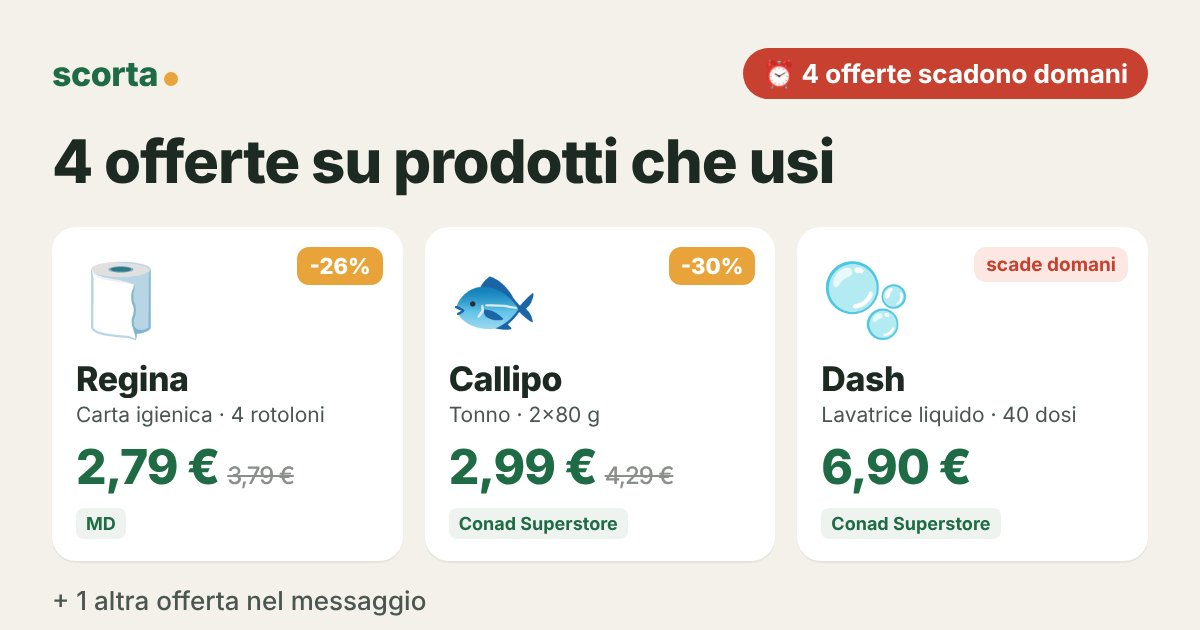
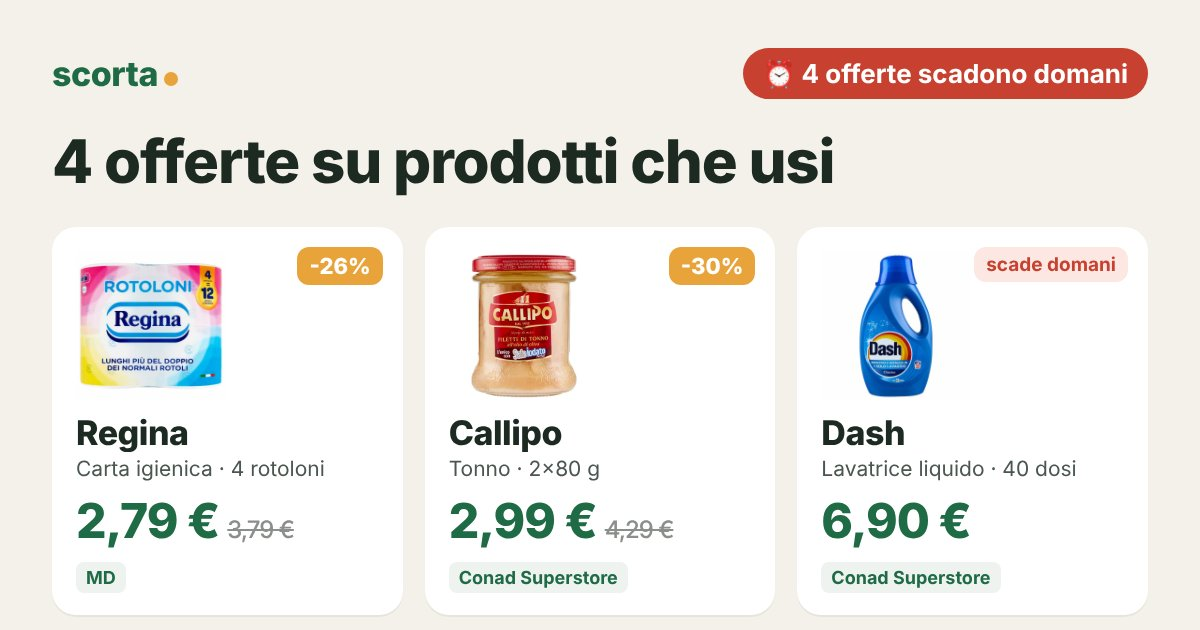
Pagine offerte 2026-10-31
Claude-Session: https://claude.ai/code/session_012BnByD7nnfoHswjF7TKs2L

diff --git a/o/31ed0d9c/index.html b/o/31ed0d9c/index.html
@@ -6,4 +6,4 @@
 <style>body{margin:0;font-family:-apple-system,system-ui,sans-serif;background:#F4F1EA;color:#1d2a22}main{max-width:560px;margin:auto;padding:16px}img{width:100%;border-radius:14px}
 ul{list-style:none;padding:0}li{display:flex;gap:10px;align-items:center;background:#fff;border-radius:12px;padding:10px 12px;margin:8px 0}.ic{font-size:26px}.th{width:44px;height:44px;object-fit:contain;background:#fff}li div:nth-child(2){flex:1}small{color:#6b746e}.pr{text-align:right;white-space:nowrap}s{color:#8a8f8b;font-size:13px}
 .btn{display:block;text-align:center;background:#1f6b45;color:#fff;font-weight:700;font-size:18px;padding:16px;border-radius:14px;text-decoration:none;margin:18px 0}.map{display:block;color:#1f6b45;margin:6px 0;text-decoration:none}</style></head>
-<body><main><img src="card.jpg" alt=""><a class="btn" href="https://tally.so/r/OQQV7k?f=F008&amp;a=A050,A051,A052,A053">✅ Segna cosa hai comprato</a><ul><li><span class=ic>🧻</span><div><b>Regina 4 rotoloni carta igienica</b><br><small>MD · scade domani</small></div><div class="pr"><s>3,79 €</s> <b>2,79 €</b></div></li><li><span class=ic>💧</span><div><b>Ferrarelle acqua effervescente naturale 6x1,5 l</b><br><small>Conad · scade domani</small></div><div class="pr"><b>1,80 €</b></div></li><li><span class=ic>🍪</span><div><b>Mulino Bianco biscotti classici Rigoli 400 g</b><br><small>Decò Supermercato · fino al 2/11</small></div><div class="pr"><b>1,59 €</b></div></li><li><span class=ic>🍞</span><div><b>Mulino Bianco fette biscottate dorate 630 g</b><br><small>Decò Supermercato · fino al 2/11</small></div><div class="pr"><b>1,79 €</b></div></li></ul><a class="map" href="https://www.google.com/maps/search/?api=1&query=MD%20C.SO%20ITALIA%2055%20Marano%20di%20Napoli">📍 MD · C.SO ITALIA 55, Marano di Napoli</a><a class="map" href="https://www.google.com/maps/search/?api=1&query=Conad%20Via%20Della%20Repubblica%20122%20Calvizzano">📍 Conad · Via Della Repubblica 122, Calvizzano</a><a class="map" href="https://www.google.com/maps/search/?api=1&query=Dec%C3%B2%20Supermercato%20Via%20Ernesto%20Che%20Guevara%2C%2036%20Marano%20di%20Napoli">📍 Decò Supermercato · Via Ernesto Che Guevara, 36, Marano di Napoli</a><p><small>Prezzi e scadenze dai volantini delle insegne. Rispondi STOP su WhatsApp per non ricevere più avvisi.</small></p></main></body></html>
+<body><main><img src="card.jpg" alt=""><a class="btn" href="https://tally.so/r/OQQV7k?f=F008&amp;a=A050,A051,A052,A053">✅ Segna cosa hai comprato</a><ul><li><img class=th src=../../img/L189.jpg><div><b>Regina 4 rotoloni carta igienica</b><br><small>MD · scade domani</small></div><div class="pr"><s>3,79 €</s> <b>2,79 €</b></div></li><li><span class=ic>💧</span><div><b>Ferrarelle acqua effervescente naturale 6x1,5 l</b><br><small>Conad · scade domani</small></div><div class="pr"><b>1,80 €</b></div></li><li><span class=ic>🍪</span><div><b>Mulino Bianco biscotti classici Rigoli 400 g</b><br><small>Decò Supermercato · fino al 2/11</small></div><div class="pr"><b>1,59 €</b></div></li><li><img class=th src=../../img/L098.jpg><div><b>Mulino Bianco fette biscottate dorate 630 g</b><br><small>Decò Supermercato · fino al 2/11</small></div><div class="pr"><b>1,79 €</b></div></li></ul><a class="map" href="https://www.google.com/maps/search/?api=1&query=MD%20C.SO%20ITALIA%2055%20Marano%20di%20Napoli">📍 MD · C.SO ITALIA 55, Marano di Napoli</a><a class="map" href="https://www.google.com/maps/search/?api=1&query=Conad%20Via%20Della%20Repubblica%20122%20Calvizzano">📍 Conad · Via Della Repubblica 122, Calvizzano</a><a class="map" href="https://www.google.com/maps/search/?api=1&query=Dec%C3%B2%20Supermercato%20Via%20Ernesto%20Che%20Guevara%2C%2036%20Marano%20di%20Napoli">📍 Decò Supermercato · Via Ernesto Che Guevara, 36, Marano di Napoli</a><p><small>Prezzi e scadenze dai volantini delle insegne. Rispondi STOP su WhatsApp per non ricevere più avvisi.</small></p></main></body></html>

diff --git a/o/7c19c5b6/index.html b/o/7c19c5b6/index.html
@@ -6,4 +6,4 @@
 <style>body{margin:0;font-family:-apple-system,system-ui,sans-serif;background:#F4F1EA;color:#1d2a22}main{max-width:560px;margin:auto;padding:16px}img{width:100%;border-radius:14px}
 ul{list-style:none;padding:0}li{display:flex;gap:10px;align-items:center;background:#fff;border-radius:12px;padding:10px 12px;margin:8px 0}.ic{font-size:26px}.th{width:44px;height:44px;object-fit:contain;background:#fff}li div:nth-child(2){flex:1}small{color:#6b746e}.pr{text-align:right;white-space:nowrap}s{color:#8a8f8b;font-size:13px}
 .btn{display:block;text-align:center;background:#1f6b45;color:#fff;font-weight:700;font-size:18px;padding:16px;border-radius:14px;text-decoration:none;margin:18px 0}.map{display:block;color:#1f6b45;margin:6px 0;text-decoration:none}</style></head>
-<body><main><img src="card.jpg" alt=""><a class="btn" href="https://tally.so/r/OQQV7k?f=F003&amp;a=A039,A040,A041,A042">✅ Segna cosa hai comprato</a><ul><li><span class=ic>🧽</span><div><b>Ace pavimenti igienizzante lavanda/talco 1 l</b><br><small>Conad · scade domani</small></div><div class="pr"><b>1,49 €</b></div></li><li><span class=ic>🍅</span><div><b>Mutti passata di pomodoro 700 g</b><br><small>Conad Superstore · scade domani</small></div><div class="pr"><b>0,95 €</b></div></li><li><span class=ic>🐟</span><div><b>Rio mare Tonno all&#x27;Olio di Oliva 4 + 2 Gratis x 80 g</b><br><small>Dodecà · prezzo fisso</small></div><div class="pr"><b>5,99 €</b></div></li><li><span class=ic>🍽</span><div><b>Fairy Pastiglie Lavastoviglie Platinum All in One, Detersivo Piatti Limone, 45 Capsule 671 g</b><br><small>Dodecà · prezzo fisso</small></div><div class="pr"><b>11,69 €</b></div></li></ul><a class="map" href="https://www.google.com/maps/search/?api=1&query=Conad%20Corso%20Cirillo%2027%20Grumo%20Nevano">📍 Conad · Corso Cirillo 27, Grumo Nevano</a><a class="map" href="https://www.google.com/maps/search/?api=1&query=Conad%20Superstore%20Via%20Barraccone%20Snc%20Sant%27Arpino">📍 Conad Superstore · Via Barraccone Snc, Sant&#x27;Arpino</a><a class="map" href="https://www.google.com/maps/search/?api=1&query=Dodec%C3%A0%20Via%20Sette%20Re%2C%2077%20Arzano">📍 Dodecà · Via Sette Re, 77, Arzano</a><p><small>Prezzi e scadenze dai volantini delle insegne. Rispondi STOP su WhatsApp per non ricevere più avvisi.</small></p></main></body></html>
+<body><main><img src="card.jpg" alt=""><a class="btn" href="https://tally.so/r/OQQV7k?f=F003&amp;a=A039,A040,A041,A042">✅ Segna cosa hai comprato</a><ul><li><img class=th src=../../img/L565.jpg><div><b>Ace pavimenti igienizzante lavanda/talco 1 l</b><br><small>Conad · scade domani</small></div><div class="pr"><b>1,49 €</b></div></li><li><img class=th src=../../img/L027.jpg><div><b>Mutti passata di pomodoro 700 g</b><br><small>Conad Superstore · scade domani</small></div><div class="pr"><b>0,95 €</b></div></li><li><img class=th src=../../img/L039.jpg><div><b>Rio mare Tonno all&#x27;Olio di Oliva 4 + 2 Gratis x 80 g</b><br><small>Dodecà · prezzo fisso</small></div><div class="pr"><b>5,99 €</b></div></li><li><img class=th src=../../img/L163.jpg><div><b>Fairy Pastiglie Lavastoviglie Platinum All in One, Detersivo Piatti Limone, 45 Capsule 671 g</b><br><small>Dodecà · prezzo fisso</small></div><div class="pr"><b>11,69 €</b></div></li></ul><a class="map" href="https://www.google.com/maps/search/?api=1&query=Conad%20Corso%20Cirillo%2027%20Grumo%20Nevano">📍 Conad · Corso Cirillo 27, Grumo Nevano</a><a class="map" href="https://www.google.com/maps/search/?api=1&query=Conad%20Superstore%20Via%20Barraccone%20Snc%20Sant%27Arpino">📍 Conad Superstore · Via Barraccone Snc, Sant&#x27;Arpino</a><a class="map" href="https://www.google.com/maps/search/?api=1&query=Dodec%C3%A0%20Via%20Sette%20Re%2C%2077%20Arzano">📍 Dodecà · Via Sette Re, 77, Arzano</a><p><small>Prezzi e scadenze dai volantini delle insegne. Rispondi STOP su WhatsApp per non ricevere più avvisi.</small></p></main></body></html>

diff --git a/o/8577fc16/index.html b/o/8577fc16/index.html
@@ -6,4 +6,4 @@
 <style>body{margin:0;font-family:-apple-system,system-ui,sans-serif;background:#F4F1EA;color:#1d2a22}main{max-width:560px;margin:auto;padding:16px}img{width:100%;border-radius:14px}
 ul{list-style:none;padding:0}li{display:flex;gap:10px;align-items:center;background:#fff;border-radius:12px;padding:10px 12px;margin:8px 0}.ic{font-size:26px}.th{width:44px;height:44px;object-fit:contain;background:#fff}li div:nth-child(2){flex:1}small{color:#6b746e}.pr{text-align:right;white-space:nowrap}s{color:#8a8f8b;font-size:13px}
 .btn{display:block;text-align:center;background:#1f6b45;color:#fff;font-weight:700;font-size:18px;padding:16px;border-radius:14px;text-decoration:none;margin:18px 0}.map{display:block;color:#1f6b45;margin:6px 0;text-decoration:none}</style></head>
-<body><main><img src="card.jpg" alt=""><a class="btn" href="https://tally.so/r/OQQV7k?f=F005&amp;a=A046,A047,A048,A049">✅ Segna cosa hai comprato</a><ul><li><span class=ic>🧻</span><div><b>Regina 4 rotoloni carta igienica</b><br><small>MD · scade domani</small></div><div class="pr"><s>3,79 €</s> <b>2,79 €</b></div></li><li><span class=ic>🐟</span><div><b>Callipo tranci di tonno all&#x27;olio extravergine biologico 2x80 g</b><br><small>Conad Superstore · scade domani</small></div><div class="pr"><s>4,29 €</s> <b>2,99 €</b></div></li><li><span class=ic>🫧</span><div><b>Dash detersivo liquido lavatrice classico/colore 40 dosi 1,8 l</b><br><small>Conad Superstore · scade domani</small></div><div class="pr"><b>6,90 €</b></div></li><li><span class=ic>🪥</span><div><b>Mentadent dentifricio prevenzione completa/white system 2x75 ml</b><br><small>Conad Superstore · scade domani</small></div><div class="pr"><b>2,89 €</b></div></li></ul><a class="map" href="https://www.google.com/maps/search/?api=1&query=MD%20Via%20Giulio%20Cesare%2C%2050%2C%20Fuorigrotta%20Napoli">📍 MD · Via Giulio Cesare, 50, Fuorigrotta, Napoli</a><a class="map" href="https://www.google.com/maps/search/?api=1&query=Conad%20Superstore%20Via%20Cintia-%20Angolo%20Via%20Marcaurelio%20Snc%20Napoli">📍 Conad Superstore · Via Cintia- Angolo Via Marcaurelio Snc, Napoli</a><p><small>Prezzi e scadenze dai volantini delle insegne. Rispondi STOP su WhatsApp per non ricevere più avvisi.</small></p></main></body></html>
+<body><main><img src="card.jpg" alt=""><a class="btn" href="https://tally.so/r/OQQV7k?f=F005&amp;a=A046,A047,A048,A049">✅ Segna cosa hai comprato</a><ul><li><img class=th src=../../img/L189.jpg><div><b>Regina 4 rotoloni carta igienica</b><br><small>MD · scade domani</small></div><div class="pr"><s>3,79 €</s> <b>2,79 €</b></div></li><li><img class=th src=../../img/L042.jpg><div><b>Callipo tranci di tonno all&#x27;olio extravergine biologico 2x80 g</b><br><small>Conad Superstore · scade domani</small></div><div class="pr"><s>4,29 €</s> <b>2,99 €</b></div></li><li><img class=th src=../../img/L138.jpg><div><b>Dash detersivo liquido lavatrice classico/colore 40 dosi 1,8 l</b><br><small>Conad Superstore · scade domani</small></div><div class="pr"><b>6,90 €</b></div></li><li><img class=th src=../../img/L223.jpg><div><b>Mentadent dentifricio prevenzione completa/white system 2x75 ml</b><br><small>Conad Superstore · scade domani</small></div><div class="pr"><b>2,89 €</b></div></li></ul><a class="map" href="https://www.google.com/maps/search/?api=1&query=MD%20Via%20Giulio%20Cesare%2C%2050%2C%20Fuorigrotta%20Napoli">📍 MD · Via Giulio Cesare, 50, Fuorigrotta, Napoli</a><a class="map" href="https://www.google.com/maps/search/?api=1&query=Conad%20Superstore%20Via%20Cintia-%20Angolo%20Via%20Marcaurelio%20Snc%20Napoli">📍 Conad Superstore · Via Cintia- Angolo Via Marcaurelio Snc, Napoli</a><p><small>Prezzi e scadenze dai volantini delle insegne. Rispondi STOP su WhatsApp per non ricevere più avvisi.</small></p></main></body></html>

diff --git a/o/79c985cf/index.html b/o/79c985cf/index.html
@@ -6,4 +6,4 @@
 <style>body{margin:0;font-family:-apple-system,system-ui,sans-serif;background:#F4F1EA;color:#1d2a22}main{max-width:560px;margin:auto;padding:16px}img{width:100%;border-radius:14px}
 ul{list-style:none;padding:0}li{display:flex;gap:10px;align-items:center;background:#fff;border-radius:12px;padding:10px 12px;margin:8px 0}.ic{font-size:26px}.th{width:44px;height:44px;object-fit:contain;background:#fff}li div:nth-child(2){flex:1}small{color:#6b746e}.pr{text-align:right;white-space:nowrap}s{color:#8a8f8b;font-size:13px}
 .btn{display:block;text-align:center;background:#1f6b45;color:#fff;font-weight:700;font-size:18px;padding:16px;border-radius:14px;text-decoration:none;margin:18px 0}.map{display:block;color:#1f6b45;margin:6px 0;text-decoration:none}</style></head>
-<body><main><img src="card.jpg" alt=""><a class="btn" href="https://tally.so/r/OQQV7k?f=F004&amp;a=A043,A044,A045">✅ Segna cosa hai comprato</a><ul><li><span class=ic>🫧</span><div><b>Lenor ammorbidente assortito 1806 ml, 87 lavaggi</b><br><small>MD · scade domani</small></div><div class="pr"><s>5,99 €</s> <b>4,89 €</b></div></li><li><span class=ic>💧</span><div><b>Panna acqua naturale 6x50 cl</b><br><small>Conad City · fino al 4/11</small></div><div class="pr"><b>2,29 €</b></div></li><li><span class=ic>🍽</span><div><b>Finish Quantum Limone pastiglie lavastoviglie 27 lavaggi 280,8 g</b><br><small>Dodecà · prezzo fisso</small></div><div class="pr"><b>6,49 €</b></div></li></ul><a class="map" href="https://www.google.com/maps/search/?api=1&query=MD%20C.SO%20ITALIA%2055%20Marano%20di%20Napoli">📍 MD · C.SO ITALIA 55, Marano di Napoli</a><a class="map" href="https://www.google.com/maps/search/?api=1&query=Conad%20City%20Corso%20Umberto%20I%2057%20Marano%20di%20Napoli">📍 Conad City · Corso Umberto I 57, Marano di Napoli</a><a class="map" href="https://www.google.com/maps/search/?api=1&query=Dodec%C3%A0%20Via%20Giuseppe%20di%20Vittorio%20SNC%20Mugnano%20di%20Napoli">📍 Dodecà · Via Giuseppe di Vittorio SNC, Mugnano di Napoli</a><p><small>Prezzi e scadenze dai volantini delle insegne. Rispondi STOP su WhatsApp per non ricevere più avvisi.</small></p></main></body></html>
+<body><main><img src="card.jpg" alt=""><a class="btn" href="https://tally.so/r/OQQV7k?f=F004&amp;a=A043,A044,A045">✅ Segna cosa hai comprato</a><ul><li><img class=th src=../../img/L153.jpg><div><b>Lenor ammorbidente assortito 1806 ml, 87 lavaggi</b><br><small>MD · scade domani</small></div><div class="pr"><s>5,99 €</s> <b>4,89 €</b></div></li><li><img class=th src=../../img/L066.jpg><div><b>Panna acqua naturale 6x50 cl</b><br><small>Conad City · fino al 4/11</small></div><div class="pr"><b>2,29 €</b></div></li><li><img class=th src=../../img/L161.jpg><div><b>Finish Quantum Limone pastiglie lavastoviglie 27 lavaggi 280,8 g</b><br><small>Dodecà · prezzo fisso</small></div><div class="pr"><b>6,49 €</b></div></li></ul><a class="map" href="https://www.google.com/maps/search/?api=1&query=MD%20C.SO%20ITALIA%2055%20Marano%20di%20Napoli">📍 MD · C.SO ITALIA 55, Marano di Napoli</a><a class="map" href="https://www.google.com/maps/search/?api=1&query=Conad%20City%20Corso%20Umberto%20I%2057%20Marano%20di%20Napoli">📍 Conad City · Corso Umberto I 57, Marano di Napoli</a><a class="map" href="https://www.google.com/maps/search/?api=1&query=Dodec%C3%A0%20Via%20Giuseppe%20di%20Vittorio%20SNC%20Mugnano%20di%20Napoli">📍 Dodecà · Via Giuseppe di Vittorio SNC, Mugnano di Napoli</a><p><small>Prezzi e scadenze dai volantini delle insegne. Rispondi STOP su WhatsApp per non ricevere più avvisi.</small></p></main></body></html>

diff --git a/o/a0ea8a2d/index.html b/o/a0ea8a2d/index.html
@@ -1,0 +1,9 @@
+<!DOCTYPE html><html lang="it"><head><meta charset="utf-8"><meta name="viewport" content="width=device-width,initial-scale=1">
+<title>Le tue offerte Scorta</title><meta name="robots" content="noindex">
+<meta property="og:title" content="6 offerte su prodotti che usi"><meta property="og:description" content="Le offerte Scorta sui prodotti che usi, nei negozi vicino a te.">
+<meta property="og:image" content="https://scortait.github.io/o/a0ea8a2d/card.jpg"><meta property="og:image:width" content="1200"><meta property="og:image:height" content="630"><meta property="og:image:type" content="image/jpeg">
+<meta property="og:url" content="https://scortait.github.io/o/a0ea8a2d/"><meta property="og:site_name" content="Scorta"><meta property="og:type" content="website">
+<style>body{margin:0;font-family:-apple-system,system-ui,sans-serif;background:#F4F1EA;color:#1d2a22}main{max-width:560px;margin:auto;padding:16px}img{width:100%;border-radius:14px}
+ul{list-style:none;padding:0}li{display:flex;gap:10px;align-items:center;background:#fff;border-radius:12px;padding:10px 12px;margin:8px 0}.ic{font-size:26px}.th{width:44px;height:44px;object-fit:contain;background:#fff}li div:nth-child(2){flex:1}small{color:#6b746e}.pr{text-align:right;white-space:nowrap}s{color:#8a8f8b;font-size:13px}
+.btn{display:block;text-align:center;background:#1f6b45;color:#fff;font-weight:700;font-size:18px;padding:16px;border-radius:14px;text-decoration:none;margin:18px 0}.map{display:block;color:#1f6b45;margin:6px 0;text-decoration:none}</style></head>
+<body><main><img src="card.jpg" alt=""><a class="btn" href="https://tally.so/r/OQQV7k?f=F009&amp;a=A054,A055,A056,A057,A058,A059">✅ Segna cosa hai comprato</a><ul><li><img class=th src=../../img/L189.jpg><div><b>Regina 4 rotoloni carta igienica</b><br><small>MD · scade domani</small></div><div class="pr"><s>3,79 €</s> <b>2,79 €</b></div></li><li><img class=th src=../../img/L027.jpg><div><b>Mutti passata di pomodoro 700 g</b><br><small>Conad · scade domani</small></div><div class="pr"><b>0,95 €</b></div></li><li><img class=th src=../../img/L223.jpg><div><b>Mentadent dentifricio White System/P 2x75 ml</b><br><small>Conad · scade domani</small></div><div class="pr"><b>2,89 €</b></div></li><li><img class=th src=../../img/L003.jpg><div><b>De Cecco pasta di semola formati normali 500 g</b><br><small>Decò Supermercato · fino al 2/11</small></div><div class="pr"><b>0,79 €</b></div></li><li><img class=th src=../../img/L141.jpg><div><b>Omino Bianco detersivo liquido lavatrice 44 lavaggi</b><br><small>Decò Supermercato · fino al 2/11</small></div><div class="pr"><b>4,39 €</b></div></li><li><img class=th src=../../img/L365.jpg><div><b>Finish gel Ultimate 3x540 ml</b><br><small>Decò Supermercato · fino al 2/11</small></div><div class="pr"><b>10,49 €</b></div></li></ul><a class="map" href="https://www.google.com/maps/search/?api=1&query=MD%20C.SO%20ITALIA%2055%20Marano%20di%20Napoli">📍 MD · C.SO ITALIA 55, Marano di Napoli</a><a class="map" href="https://www.google.com/maps/search/?api=1&query=Conad%20Via%20Della%20Repubblica%20122%20Calvizzano">📍 Conad · Via Della Repubblica 122, Calvizzano</a><a class="map" href="https://www.google.com/maps/search/?api=1&query=Dec%C3%B2%20Supermercato%20Via%20Ernesto%20Che%20Guevara%2C%2036%20Marano%20di%20Napoli">📍 Decò Supermercato · Via Ernesto Che Guevara, 36, Marano di Napoli</a><p><small>Prezzi e scadenze dai volantini delle insegne. Rispondi STOP su WhatsApp per non ricevere più avvisi.</small></p></main></body></html>

diff --git a/o/5cffcb88/index.html b/o/5cffcb88/index.html
@@ -6,4 +6,4 @@
 <style>body{margin:0;font-family:-apple-system,system-ui,sans-serif;background:#F4F1EA;color:#1d2a22}main{max-width:560px;margin:auto;padding:16px}img{width:100%;border-radius:14px}
 ul{list-style:none;padding:0}li{display:flex;gap:10px;align-items:center;background:#fff;border-radius:12px;padding:10px 12px;margin:8px 0}.ic{font-size:26px}.th{width:44px;height:44px;object-fit:contain;background:#fff}li div:nth-child(2){flex:1}small{color:#6b746e}.pr{text-align:right;white-space:nowrap}s{color:#8a8f8b;font-size:13px}
 .btn{display:block;text-align:center;background:#1f6b45;color:#fff;font-weight:700;font-size:18px;padding:16px;border-radius:14px;text-decoration:none;margin:18px 0}.map{display:block;color:#1f6b45;margin:6px 0;text-decoration:none}</style></head>
-<body><main><img src="card.jpg" alt=""><a class="btn" href="https://tally.so/r/OQQV7k?f=F002&amp;a=A036,A037,A038">✅ Segna cosa hai comprato</a><ul><li><span class=ic>🐟</span><div><b>Rio Mare tonno all&#x27;olio di oliva Filo d&#x27;Olio 4x65 g</b><br><small>Conad City · scade domani</small></div><div class="pr"><b>4,95 €</b></div></li><li><span class=ic>🧻</span><div><b>Scottex Scottonelle carta igienica 12 rotoli</b><br><small>Eté · fino al 2/11</small></div><div class="pr"><b>3,69 €</b></div></li><li><span class=ic>🧽</span><div><b>Amuchina pavimenti varie profumazioni 1,25 l</b><br><small>Eté · fino al 2/11</small></div><div class="pr"><b>1,89 €</b></div></li></ul><a class="map" href="https://www.google.com/maps/search/?api=1&query=Conad%20City%20Via%20Publio%20Virgilio%20Marone%208/10%20Poggiomarino">📍 Conad City · Via Publio Virgilio Marone 8/10, Poggiomarino</a><a class="map" href="https://www.google.com/maps/search/?api=1&query=Et%C3%A9%20Via%20G.%20Iervolino%2C%2080%20Poggiomarino">📍 Eté · Via G. Iervolino, 80, Poggiomarino</a><p><small>Prezzi e scadenze dai volantini delle insegne. Rispondi STOP su WhatsApp per non ricevere più avvisi.</small></p></main></body></html>
+<body><main><img src="card.jpg" alt=""><a class="btn" href="https://tally.so/r/OQQV7k?f=F002&amp;a=A036,A037,A038">✅ Segna cosa hai comprato</a><ul><li><img class=th src=../../img/L039.jpg><div><b>Rio Mare tonno all&#x27;olio di oliva Filo d&#x27;Olio 4x65 g</b><br><small>Conad City · scade domani</small></div><div class="pr"><b>4,95 €</b></div></li><li><img class=th src=../../img/L188.jpg><div><b>Scottex Scottonelle carta igienica 12 rotoli</b><br><small>Eté · fino al 2/11</small></div><div class="pr"><b>3,69 €</b></div></li><li><img class=th src=../../img/L880.jpg><div><b>Amuchina pavimenti varie profumazioni 1,25 l</b><br><small>Eté · fino al 2/11</small></div><div class="pr"><b>1,89 €</b></div></li></ul><a class="map" href="https://www.google.com/maps/search/?api=1&query=Conad%20City%20Via%20Publio%20Virgilio%20Marone%208/10%20Poggiomarino">📍 Conad City · Via Publio Virgilio Marone 8/10, Poggiomarino</a><a class="map" href="https://www.google.com/maps/search/?api=1&query=Et%C3%A9%20Via%20G.%20Iervolino%2C%2080%20Poggiomarino">📍 Eté · Via G. Iervolino, 80, Poggiomarino</a><p><small>Prezzi e scadenze dai volantini delle insegne. Rispondi STOP su WhatsApp per non ricevere più avvisi.</small></p></main></body></html>
